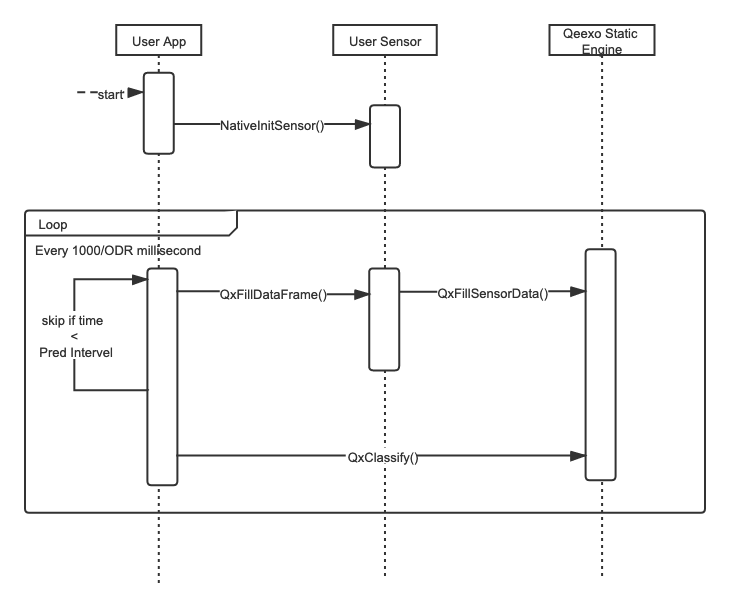
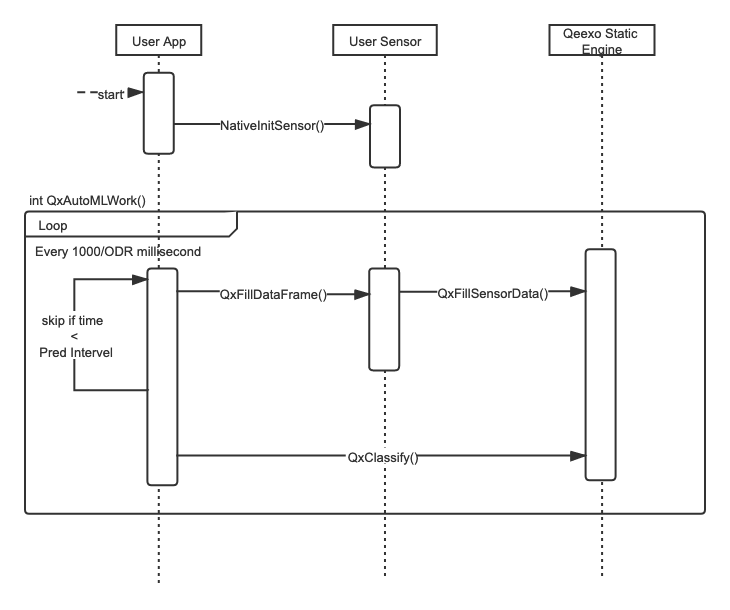
udpate .md

Changed region(s): [[0.0603, 0.8098, 0.9644, 0.8721], [0.0301, 0.3115, 0.9644, 0.4361]]

diff --git a/QeexoAutoML_Embedded_Application_Guide.md b/QeexoAutoML_Embedded_Application_Guide.md
@@ -97,11 +97,15 @@ You can call this function to fill the sensor data to static engine library in e
 
 ### Step 2. Implement essential functions to fill sensor data and call classification API
 
+The below diagram shows how Qeexo classify interfaces should run in your device: 
+![](https://github.com/leomonan/listdelsame/blob/master/QeexoAutomlStaticEngineUserProcess.png?token=AGRW7CKHCT6HMMUYIL6EWVDAUSZWM)
+From the diagram we can know, Qeexo static engine library provide two interface `void QxFillSensorData()` and `void QxClassify()`
+
+
 🔹 1. `int QxAutoMLWork()` 
 
 `int QxAutoMLWork()` is a function implemented by customer which will run in a thread loop, it calls `void QxFillSensorData()` to fill sensor data to the classify engine in each ODR circle, and call `in QxClassify()` in each PRED_CLASSIFICATION_INTERVAL_IN_MSECS interval which defined in 'QxAutoMLUser.h'
 
-![](https://github.com/leomonan/listdelsame/blob/master/QeexoAutomlStaticEngineUserProcess.png?token=AGRW7CKHCT6HMMUYIL6EWVDAUSZWM)
 
 Here is a example of `int QxAutoMLWork()` implementation, in this example, we use 100HZ sensor ODR to fill sensor data, so the data fill interval is 1000/100Hz = 10 ms :
 
